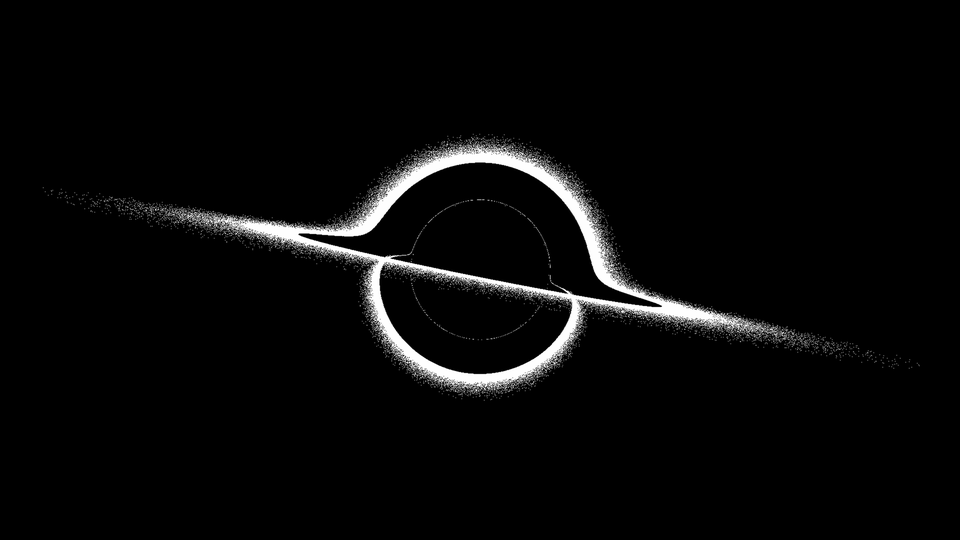
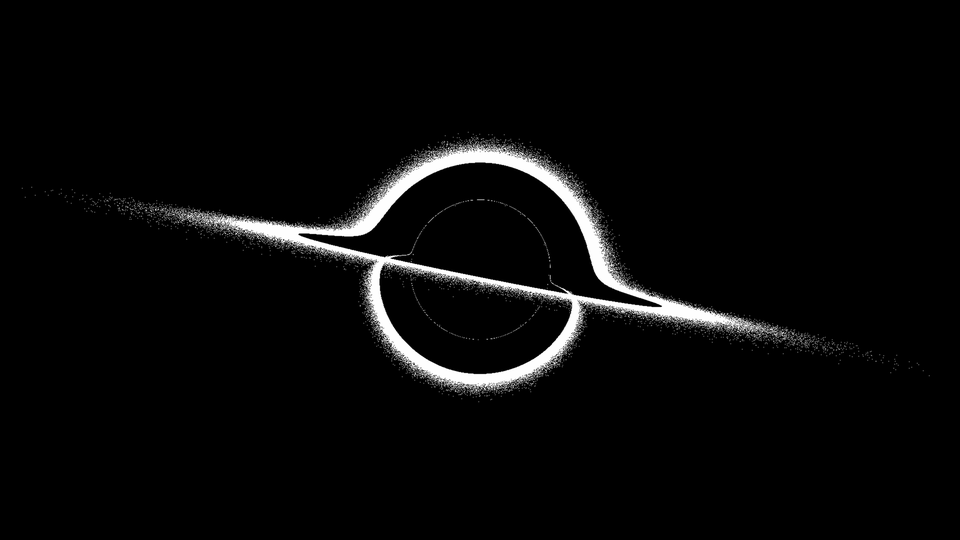
Add pylint and make it happy

diff --git a/tracer.py b/tracer.py
@@ -1,9 +1,12 @@
+"""This module implements a very simple black hole raytracer / simulator"""
+
 import argparse
+import time
+
 import jax.numpy as np
 import jax.random as jr
 import numpy as onp
 from PIL import Image
-import time
 from tqdm import trange
 
 # Physical constants
@@ -18,7 +21,7 @@ S_RADIUS = (2 * G * BH_MASS) / C**2
 
 # Accretion disk size
 DISC_INNER_R = 3 * S_RADIUS
-DISC_OUTER_R = 7 * S_RADIUS
+DISC_OUTER_R = 7.5 * S_RADIUS
 
 # 35mm sensor
 SENSOR_WIDTH = 0.036
@@ -47,6 +50,11 @@ def unit(vecs):
 
 
 class Camera:
+    """The camera class encapsulates attributes of a camera, e.g. its position
+    and focal length, and produces the initial tensor of ray positions and
+    velocities.
+    """
+
     def __init__(
         self,
         res,
@@ -71,7 +79,7 @@ class Camera:
         rz = -np.arctan(pos_x / pos_y)
         ry = self.rotation
 
-        Rx = np.array(
+        rx_mat = np.array(
             [
                 [1.0, 0.0, 0.0],
                 [0.0, np.cos(rx), -np.sin(rx)],
@@ -79,7 +87,7 @@ class Camera:
             ]
         )
 
-        Ry = np.array(
+        ry_mat = np.array(
             [
                 [np.cos(ry), 0.0, np.sin(ry)],
                 [0.0, 1.0, 0.0],
@@ -87,7 +95,7 @@ class Camera:
             ]
         )
 
-        Rz = np.array(
+        rz_mat = np.array(
             [
                 [np.cos(rz), -np.sin(rz), 0.0],
                 [np.sin(rz), np.cos(rz), 0.0],
@@ -95,9 +103,8 @@ class Camera:
             ]
         )
 
-        R = np.matmul(np.matmul(Rz, Ry), Rx)
-
-        return np.matmul(vels, R)
+        r_mat = np.matmul(np.matmul(rz_mat, ry_mat), rx_mat)
+        return np.matmul(vels, r_mat)
 
     def click(self):
         """Click the camera shutter, and return initial position and velocity vectors for all
@@ -130,9 +137,19 @@ class Camera:
 
 
 class Tracer:
-    def __init__(self, cam, outpath):
-        self.cam = cam
+    """The tracer class manages the ray-tracing process."""
+
+    def __init__(self, camera, outpath):
+        self.cam = camera
         self.outpath = outpath
+        self.has_collisions = False
+        self.collision_counts = []
+        self.reset()
+
+    def reset(self):
+        """Reset the state of the tracer."""
+        self.has_collisions = False
+        self.collision_counts = []
 
     def tick(self, rays):
         """Move the rays forward by a single timeslice."""
@@ -159,6 +176,7 @@ class Tracer:
 
         1) crossed the x / y plane and
         2) crossed within a cylinder defined by the inner and outer radius of the disc.
+        3) sampled from a guassian concentrated around the inner side of the disc.
         """
         # Detect rays that have crossed the x / y plane
         crossed_xy_plane = np.logical_or(
@@ -181,13 +199,22 @@ class Tracer:
         disc_dist = DISC_OUTER_R - DISC_INNER_R
         distances = np.clip(distances, 0, disc_dist)
         normalized_distances = distances / disc_dist
-        probabilities = normal(normalized_distances, 0.3)
+        probabilities = normal(normalized_distances, 0.25)
         collision_samples = jr.bernoulli(RNG_KEY, probabilities).astype(bool)
 
         return np.logical_and(
             crossed_xy_plane,
             np.logical_and(crossed_disc_column, collision_samples),
         )
+
+    def should_stop(self):
+        """Stopping criterion for determining when tracing is done."""
+        lookback = 10
+
+        if not self.has_collisions or len(self.collision_counts) < lookback:
+            return False
+
+        return sum(self.collision_counts[-lookback:]) == 0
 
     def render_image(self, collisions):
         """Produce an image where the pixels corresponding to rays that have collided with the
@@ -198,26 +225,42 @@ class Tracer:
         img = (img / img.max()) * 254
         return img.astype(np.uint8)
 
+    def antialias_image(self, image):
+        """Runs an anti-aliasing process on the image"""
+        w, h = self.cam.res
+        image = image.resize((w * 2, h * 2), Image.Resampling.LANCZOS)
+        image = image.resize((w // 2, h // 2), Image.Resampling.LANCZOS)
+        return image
+
     def run(self, max_iter=100):
         """Run the main tracer loop."""
+        self.reset()
         pos, vels = self.cam.click()
 
         collisions = np.repeat(False, len(pos))
 
-        for n in trange(max_iter):
+        i = 0
+        for _ in trange(max_iter):
             new_pos, new_vels = self.tick((pos, vels))
 
             new_collisions = self.detect_collisions(pos, new_pos)
+            self.collision_counts.append(new_collisions.sum())
+
             if np.any(new_collisions):
+                self.has_collisions = True
                 collisions = np.logical_or(collisions, new_collisions)
 
+            if self.should_stop():
+                break
+
             pos, vels = new_pos, new_vels
+            i += 1
             time.sleep(0.01)
 
-        w, h = self.cam.res
+        print(f"Finished in {i} iterations")
+
         image = Image.fromarray(onp.array(self.render_image(collisions)))
-        image = image.resize((w * 2, h * 2), Image.Resampling.LANCZOS)
-        image = image.resize((w // 2, h // 2), Image.Resampling.LANCZOS)
+        image = self.antialias_image(image)
         image.save(self.outpath)
 
         return image
@@ -226,9 +269,9 @@ class Tracer:
 if __name__ == "__main__":
     parser = argparse.ArgumentParser()
     parser.add_argument("-o", "--output-path", default="out.png")
-    parser.add_argument("-x", "--width", type=int, default=4096)
-    parser.add_argument("-y", "--height", type=int, default=3072)
-    parser.add_argument("-i", "--max-iter", type=int, default=2048)
+    parser.add_argument("-x", "--width", type=int, default=1920)
+    parser.add_argument("-y", "--height", type=int, default=1080)
+    parser.add_argument("-i", "--max-iter", type=int, default=1000)
     args = parser.parse_args()
 
     cam = Camera(res=(args.width, args.height))
